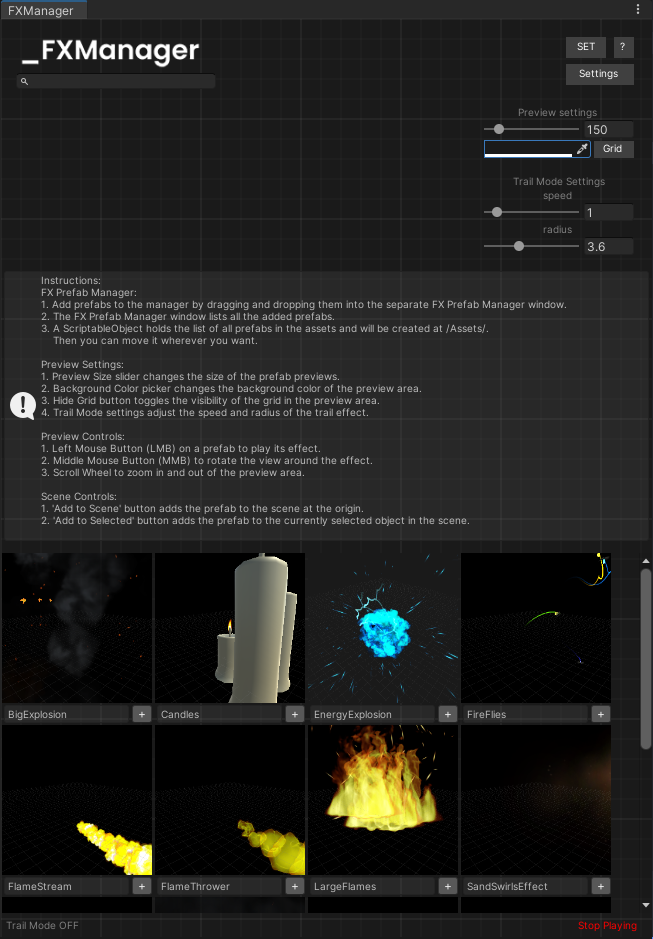
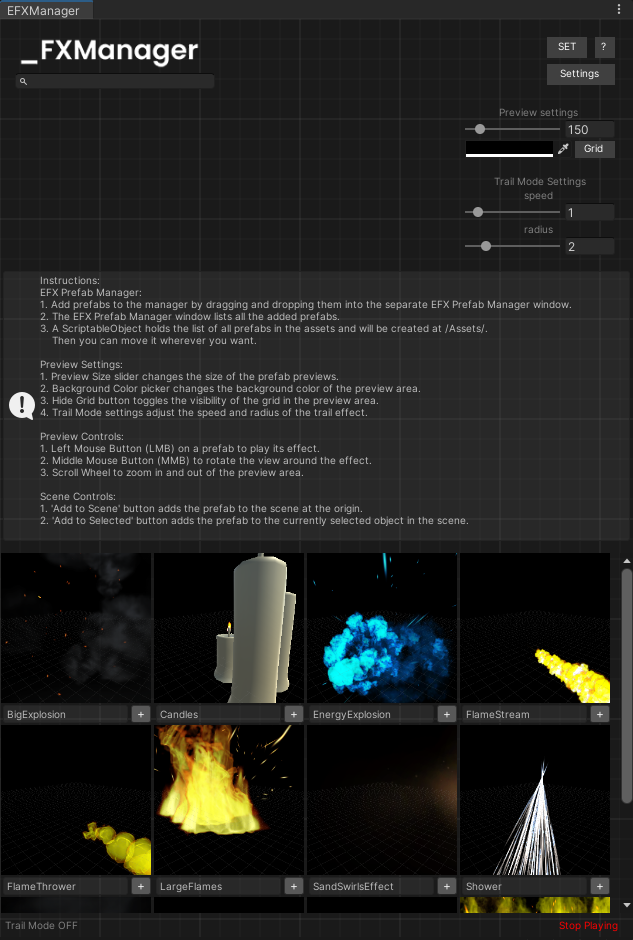
fix

diff --git a/EFXManager/EFXManagerWindow.cs b/EFXManager/EFXManagerWindow.cs
@@ -21,16 +21,16 @@ public class EFXManagerWindow : EditorWindow
     private float _trailRadius = 2.0f;
     GUIStyle buttonStyle;
 
-    [MenuItem("Escripts/FXManager")]
+    [MenuItem("Escripts/EFXManager")]
     public static void ShowWindow()
     {
-        GetWindow<EFXManagerWindow>("FXManager");
+        GetWindow<EFXManagerWindow>("EFXManager");
     }
 
     private void OnEnable()
     {
         _previewHandler = new EFXPreviewHandler(_backgroundColor, OnPreviewStarted);
-        _headerImage = Resources.Load<Texture2D>("FXManager");
+        _headerImage = Resources.Load<Texture2D>("EFXManager");
         EditorApplication.update += UpdateWindow;
         EditorApplication.update += _previewHandler.UpdatePreview;
         EFXPrefabManagerWindow.OnPrefabsUpdated += UpdatePrefabsList;
@@ -162,9 +162,9 @@ public class EFXManagerWindow : EditorWindow
         {
             EditorGUILayout.HelpBox(
                 "Instructions:\n" +
-                "FX Prefab Manager:\n" +
-                "1. Add prefabs to the manager by dragging and dropping them into the separate FX Prefab Manager window.\n" +
-                "2. The FX Prefab Manager window lists all the added prefabs.\n" +
+                "EFX Prefab Manager:\n" +
+                "1. Add prefabs to the manager by dragging and dropping them into the separate EFX Prefab Manager window.\n" +
+                "2. The EFX Prefab Manager window lists all the added prefabs.\n" +
                 "3. A ScriptableObject holds the list of all prefabs in the assets and will be created at /Assets/.\n" +
                 "    Then you can move it wherever you want.\n" +
                 "\n" +

diff --git a/EFXManager/EFXPrefabManagerWindow.cs b/EFXManager/EFXPrefabManagerWindow.cs
@@ -12,7 +12,7 @@ public class EFXPrefabManagerWindow : EditorWindow
 
     public static void ShowWindow()
     {
-        GetWindow<EFXPrefabManagerWindow>("FX Prefab Manager");
+        GetWindow<EFXPrefabManagerWindow>("EFX Prefab Manager");
     }
 
     private void OnEnable()
@@ -76,7 +76,7 @@ public class EFXPrefabManagerWindow : EditorWindow
         GUILayout.BeginHorizontal();
         GUILayout.Space(30);
         GUILayout.BeginVertical();
-        GUILayout.Label("FX Prefab Manager", EditorStyles.largeLabel);
+        GUILayout.Label("EFX Prefab Manager", EditorStyles.largeLabel);
         GUILayout.Label("Drag and drop prefabs with Particle Systems here,\nor select them manually. Only prefabs containing\nParticle Systems will be accepted.", EditorStyles.miniLabel);
         GUILayout.EndVertical();
         GUILayout.FlexibleSpace();
